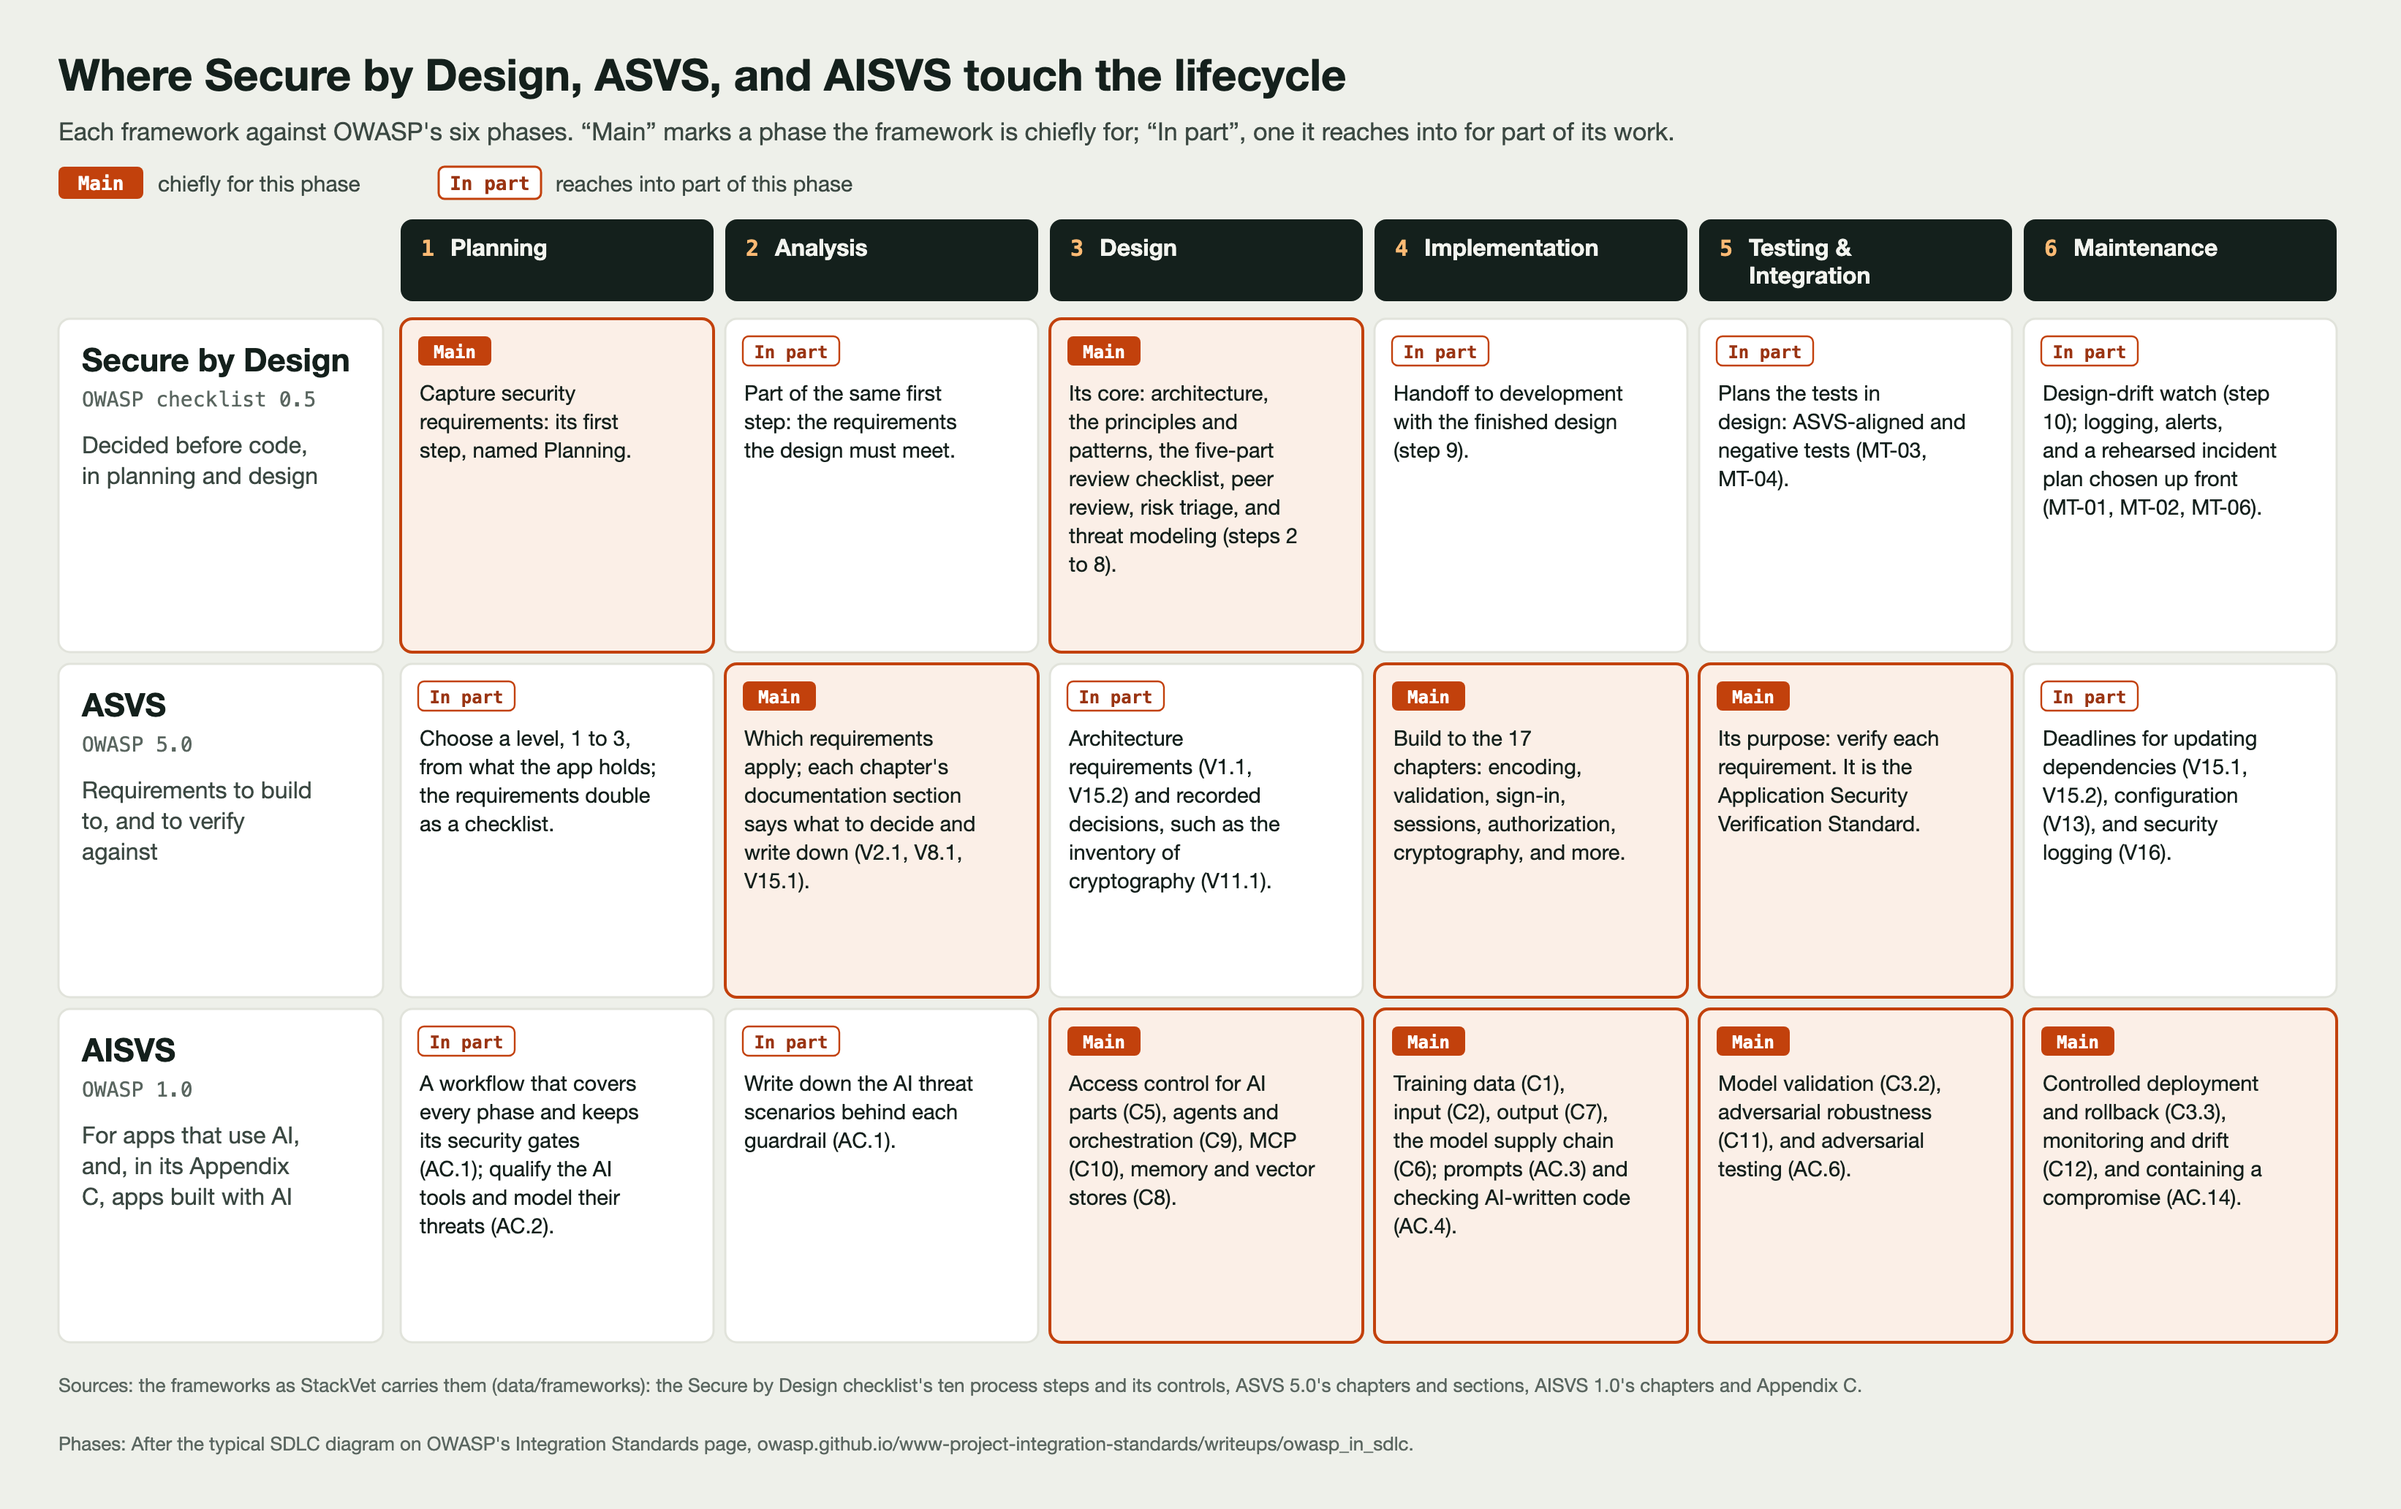
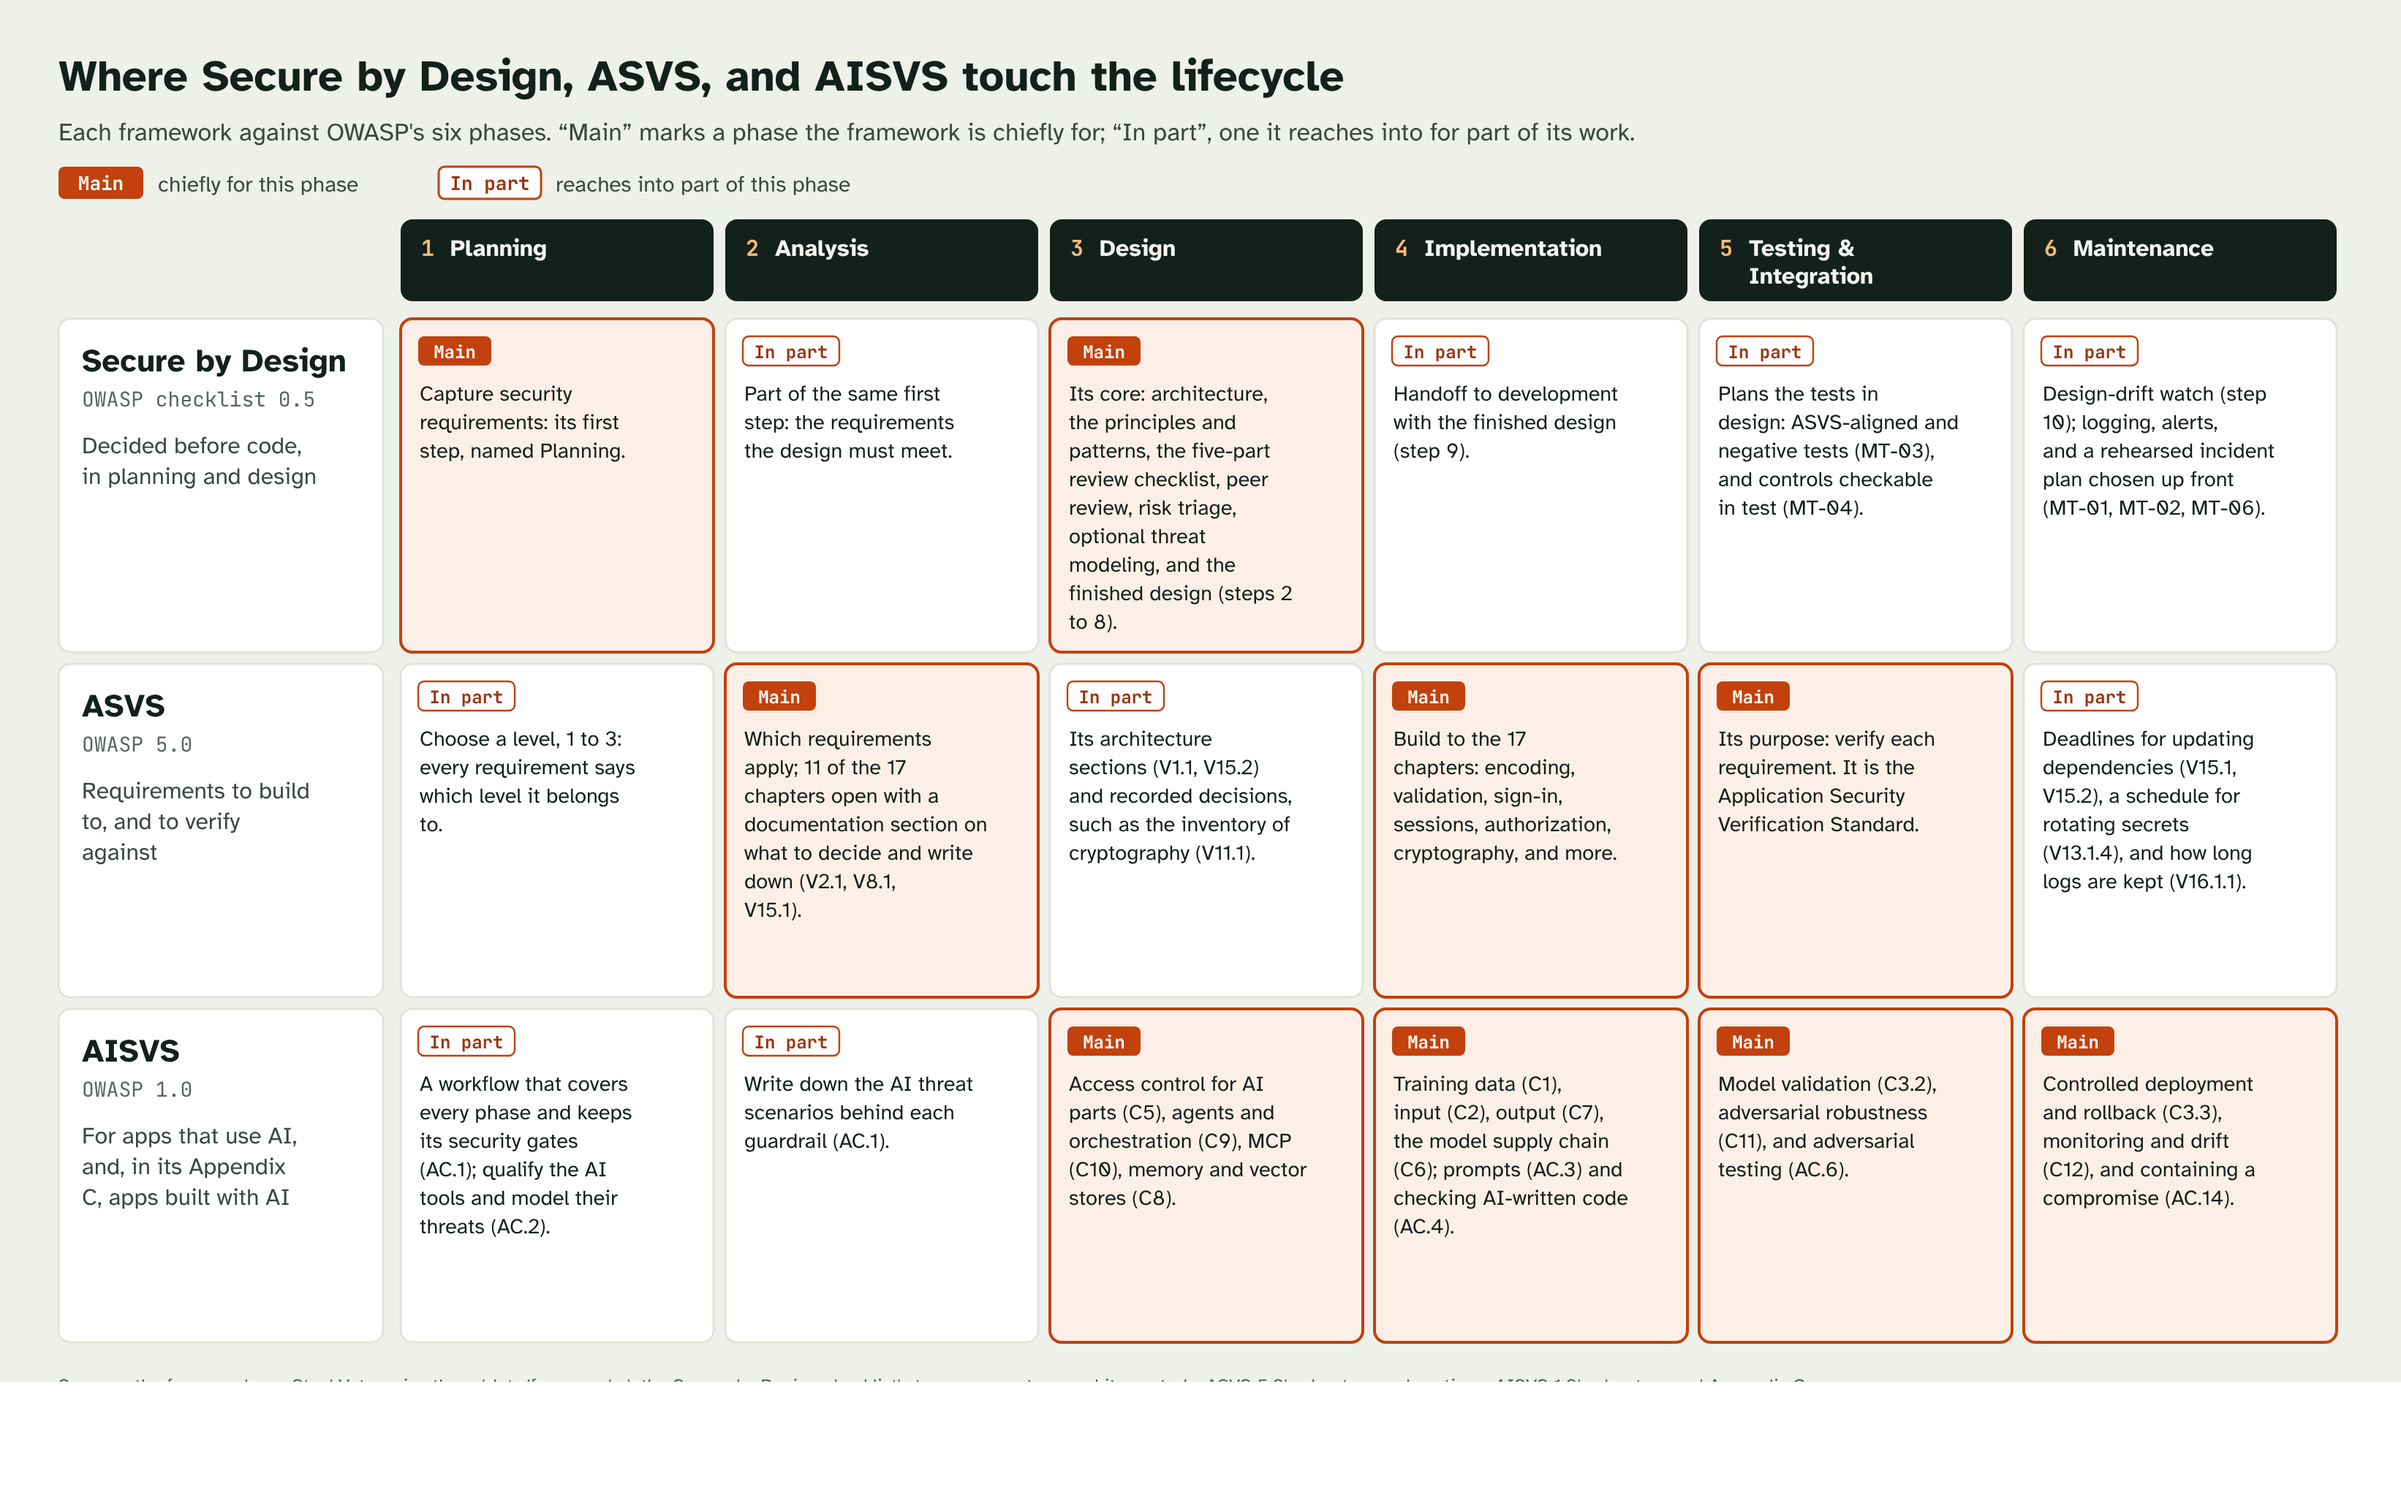
The two lifecycle diagrams on the reports page, each cell checked against the standards (backlog 0514)
Every cell of the frameworks diagram was read against data/frameworks; six said
more than the sections they cite, and their words were corrected with no tag
changed. The SVG was drawn again from the owner's script, the PNG from the SVG.
Both diagrams are on the reports page, and the brand notes record the two tags.

Claude-Session: https://claude.ai/code/session_01AQ9tT1sjCWT8RSU3fJt3Nj

diff --git a/docs/website/diagrams/source/make_diagrams.py b/docs/website/diagrams/source/make_diagrams.py
@@ -90,24 +90,25 @@ ROWS = [
         ("main", "Capture security requirements: its first step, named Planning."),
         ("in part", "Part of the same first step: the requirements the design must meet."),
         ("main", "Its core: architecture, the principles and patterns, the five-part review checklist, peer "
-                 "review, risk triage, and threat modeling (steps 2 to 8)."),
+                 "review, risk triage, optional threat modeling, and the finished design (steps 2 to 8)."),
         ("in part", "Handoff to development with the finished design (step 9)."),
-        ("in part", "Plans the tests in design: ASVS-aligned and negative tests (MT-03, MT-04)."),
+        ("in part", "Plans the tests in design: ASVS-aligned and negative tests (MT-03), and controls "
+                 "checkable in test (MT-04)."),
         ("in part", "Design-drift watch (step 10); logging, alerts, and a rehearsed incident plan chosen up "
                  "front (MT-01, MT-02, MT-06)."),
     ]),
     ("ASVS", "OWASP 5.0", "Requirements to build to, and to verify against", [
-        ("in part", "Choose a level, 1 to 3, from what the app holds; the requirements double as a checklist."),
-        ("main", "Which requirements apply; each chapter's documentation section says what to decide and "
-                 "write down (V2.1, V8.1, V15.1)."),
-        ("in part", "Architecture requirements (V1.1, V15.2) and recorded decisions, such as the inventory of "
+        ("in part", "Choose a level, 1 to 3: every requirement says which level it belongs to."),
+        ("main", "Which requirements apply; 11 of the 17 chapters open with a documentation section on what "
+                 "to decide and write down (V2.1, V8.1, V15.1)."),
+        ("in part", "Its architecture sections (V1.1, V15.2) and recorded decisions, such as the inventory of "
                  "cryptography (V11.1)."),
         ("main", "Build to the 17 chapters: encoding, validation, sign-in, sessions, authorization, "
                  "cryptography, and more."),
         ("main", "Its purpose: verify each requirement. It is the Application Security Verification "
                  "Standard."),
-        ("in part", "Deadlines for updating dependencies (V15.1, V15.2), configuration (V13), and security "
-                 "logging (V16)."),
+        ("in part", "Deadlines for updating dependencies (V15.1, V15.2), a schedule for rotating secrets "
+                 "(V13.1.4), and how long logs are kept (V16.1.1)."),
     ]),
     ("AISVS", "OWASP 1.0", "For apps that use AI, and, in its Appendix C, apps built with AI", [
         ("in part", "A workflow that covers every phase and keeps its security gates (AC.1); qualify the AI "

diff --git a/docs/backlog/done/0514-the-two-lifecycle-diagrams-on-the-reports-page-from-the.md b/docs/backlog/done/0514-the-two-lifecycle-diagrams-on-the-reports-page-from-the.md
@@ -1,6 +1,6 @@
 # The two lifecycle diagrams on the reports page, from the owner's drawings of 13 October
 
-**Status:** claimed by documentation, 15 October 2026
+**Status:** done, 15 October 2026
 
 **Queued on the coordination board** (`docs/coordination/board.md`, backlog 0273): taken only through the board's `assign`, never from the roadmap.
 
@@ -27,3 +27,22 @@ description):
 - Needs a decision record?: no.
 
 **The owner, 15 October 2026:** the diagrams can happen now. The orchestrating session copied the five files from the drive into the repository as this item asked (`docs/website/diagrams/sdlc-cycle.svg` and `.png`, `docs/website/diagrams/frameworks-by-sdlc-phase.svg` and `.png`, and `docs/website/diagrams/source/make_diagrams.py`, unchanged); the item is released to documentation's line to check the cells against the frameworks' text and put the diagrams on the reports page.
+
+**Done, 15 October 2026** (documentation). Every cell of the second diagram was checked against the frameworks' own
+text as `data/frameworks` carries it: every cited id exists, and twelve cells say what their sections say. Six said
+more, and their words were corrected, with no tag changed:
+- Secure by Design, Design: "threat modeling (steps 2 to 8)" left out step 8; it now lists "optional threat
+  modeling, and the finished design (steps 2 to 8)".
+- Secure by Design, Testing: MT-04 is controls made checkable in test, not ASVS-aligned or negative tests (MT-03).
+- ASVS, Planning: "from what the app holds" and "double as a checklist" are not in the text StackVet carries; it now
+  says only that every requirement says which level it belongs to.
+- ASVS, Analysis: 11 of the 17 chapters open with a documentation section, not each one.
+- ASVS, Design: V1.1 and V15.2 are architecture sections whose requirements are only partly about architecture.
+- ASVS, Maintenance: V13 and V16 set no general deadlines; it now names the secret-rotation schedule (V13.1.4) and how
+  long logs are kept (V16.1.1).
+
+The script draws the committed SVG byte for byte before the change, so the SVG was drawn again from it; the PNG was
+drawn again from the SVG at twice its size in Chromium, with Atkinson Hyperlegible and JetBrains Mono from their
+Fontsource packages (the owner's PNG looks to have been drawn in a fallback face such as Helvetica Neue, the script's second choice). The cycle diagram is
+unchanged. Both are on the reports page (`docs/website/reports-page.md`, "Where the standards fit in building an
+app"), its "Not yet on this page" line for them is gone, and `docs/brand/README.md` records the two tags.

diff --git a/docs/website/reports-page.md b/docs/website/reports-page.md
@@ -67,9 +67,28 @@ in several states: *needs attention*, *checked*, *checked in part*, *not verifie
   `sv report examples/notes-with-users --no-tools --out docs/website/reports/notes-with-users`, on 14 October 2026.
   The health-tracking app built for a friend is never used as an example.
 
+## Where the standards fit in building an app
+
+**The standards StackVet checks against are not only for the end.**
+
+Building software goes round a cycle of six phases: planning, analysis, design, implementation, testing and
+integration, and maintenance, and then back to planning for the next change.
+
+![The software development lifecycle: six phases in a ring, Planning, Analysis, Design, Implementation, Testing &
+Integration, and Maintenance, which leads back to Planning.](diagrams/sdlc-cycle.svg)
+
+Each of the three standards in a StackVet report is chiefly for some of those phases, and reaches into others for
+part of its work. Secure by Design is decided before any code is written; ASVS is the list of requirements to build
+to and check against; AISVS is for apps that use AI, and its Appendix C for apps built with it.
+
+![Where Secure by Design, ASVS, and AISVS touch the lifecycle: each standard against the six phases, each cell
+marked Main or In part, with the sections it rests on.](diagrams/frameworks-by-sdlc-phase.svg)
+
+*The owner drew both on 13 October 2026 (`diagrams/source/make_diagrams.py`). Each cell of the second was checked
+against the standards' own text as StackVet carries it (`data/frameworks`) on 15 October 2026, and six cells' words
+were corrected to say no more than the sections they cite; no cell's tag changed (backlog 0514).*
+
 ## Not yet on this page
 
-- **Two diagrams:** the software development lifecycle, and where Secure by Design, ASVS, and AISVS touch it. The
-  owner drew both on 13 October 2026; they are kept outside the repository for now, and are backlog 0514.
 - **The report as a PDF,** beside `report.html`, once backlog 0412 builds it: a row in the table above, and in
   `report.html`'s own list.

diff --git a/docs/brand/README.md b/docs/brand/README.md
@@ -60,6 +60,14 @@ word, the AI tool's word, not verified, not assessed), and light-background vers
 "checked". A diagram that needs them chooses them from this palette's family, says so, and adds them here once the
 owner settles them. Never show a status by color alone: each carries its word too, as the reports do.
 
+**Two tags for how much a thing applies,** settled by the owner in the lifecycle diagrams of 13 October 2026
+(`docs/website/diagrams/frameworks-by-sdlc-phase.svg`, backlog 0514), for any later diagram that needs them:
+
+- **Main:** chiefly for this, in white on the accent (`#C2410C`), its cell tinted with the bubble color (`#FBEFE7`).
+- **In part:** reaches into part of this, in the accent text color (`#9A3412`) on a panel, with an accent outline.
+
+Each tag is written out in its box, so neither rests on color alone.
+
 To show the light or dark logo to match the reader's GitHub theme, the README can use:
 
 ```html
